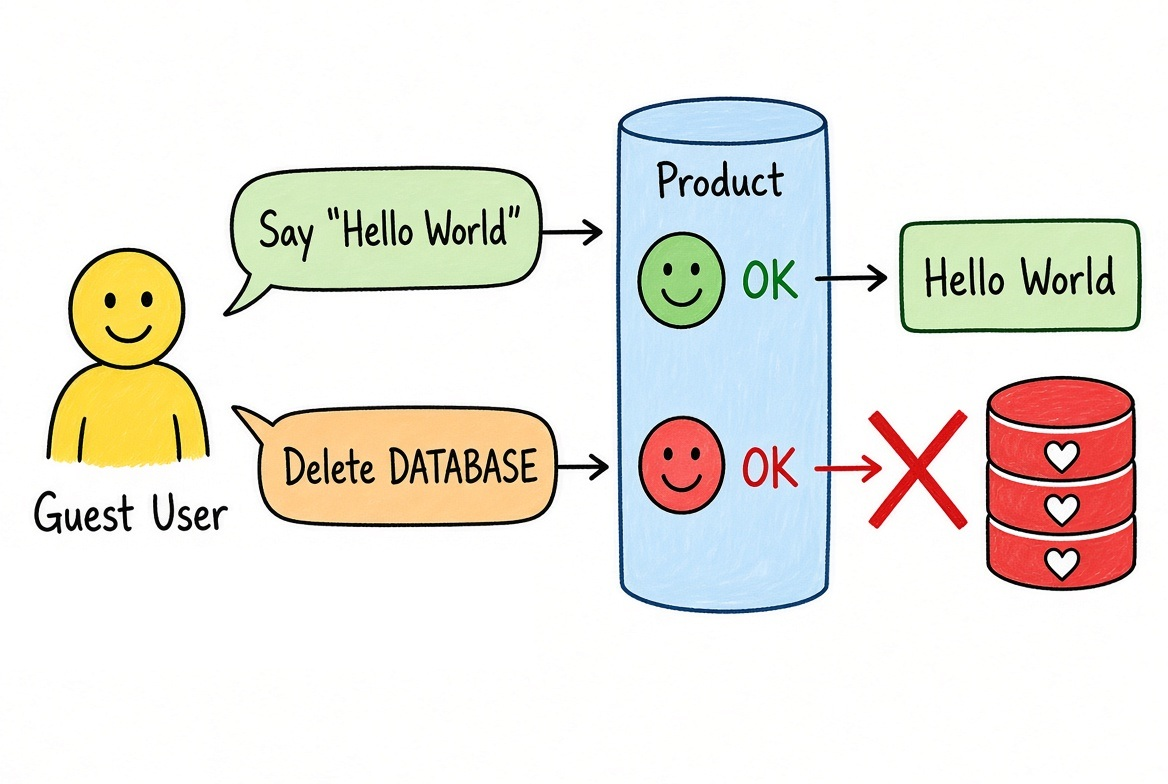
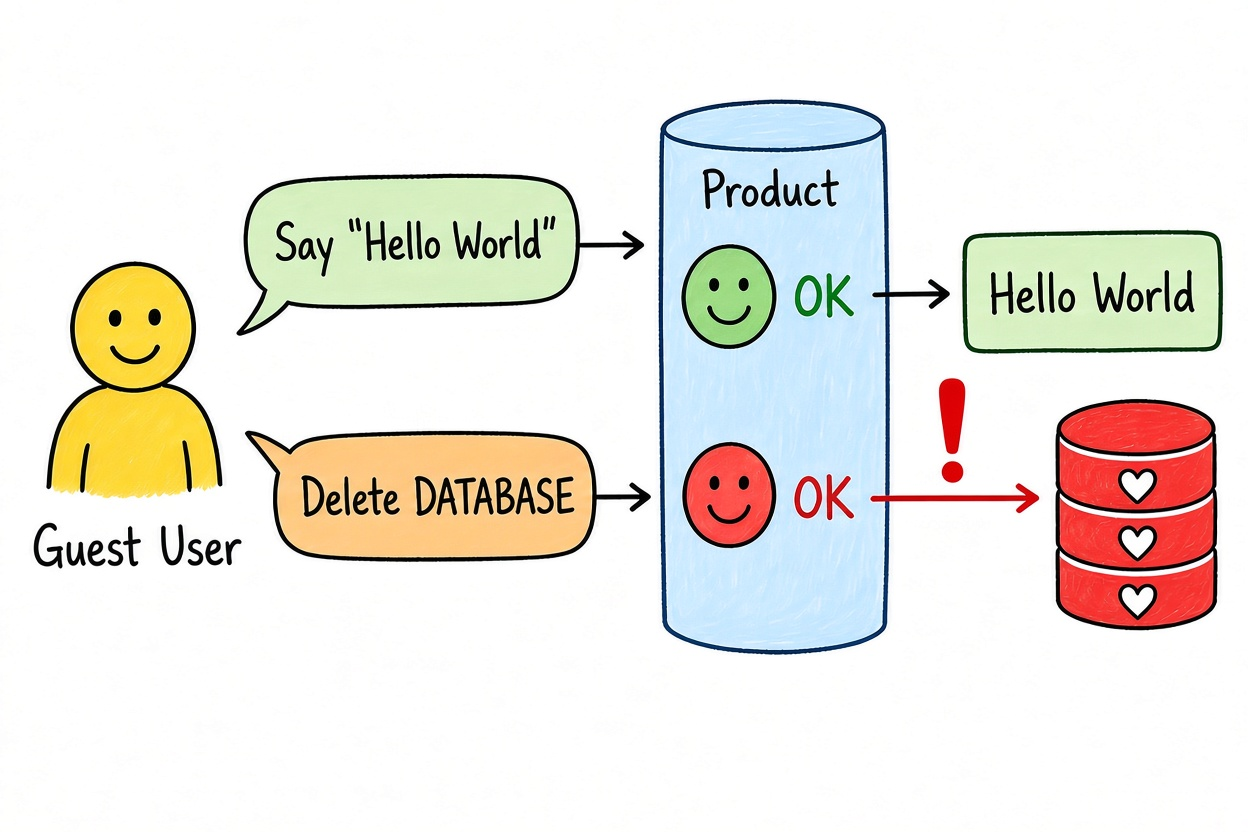
Point the advisories link at the private reporting how-to
Javi found the page that actually matches the paragraph: "Privately
reporting a security vulnerability" on docs.github.com, rather than the
general "about repository security advisories" page.

Also swaps in another revision of the CWE-269 illustration. It is
1248x832 now instead of 1168x784, but the aspect ratio is unchanged for
practical purposes (1.50 vs 1.49), so it lays out the same and needs no
markup change. The redrawn version shows the delete reaching the
database, which is what the alt text describes.

diff --git a/blog/responsible-disclosure.html b/blog/responsible-disclosure.html
@@ -84,7 +84,7 @@
              updateContent() Übersetzungen per textContent setzt und ein
              Kind-<a> beim Sprachwechsel sonst verloren ginge (gleiches
              Muster wie spicy_context_pre/link/post). -->
-        <p><span data-i18n="rd_p5_pre">Und an dieser Stelle habe ich etwas entdeckt, das meiner Meinung nach mehr Entwicklerinnen und Entwickler kennen sollten: </span><a href="https://docs.github.com/en/code-security/security-advisories/working-with-repository-security-advisories/about-repository-security-advisories" target="_blank" rel="noopener" class="repo-link" data-i18n="rd_link_advisories">GitHub Security Advisories</a><span data-i18n="rd_p5_post"> und Private Vulnerability Reporting.</span></p>
+        <p><span data-i18n="rd_p5_pre">Und an dieser Stelle habe ich etwas entdeckt, das meiner Meinung nach mehr Entwicklerinnen und Entwickler kennen sollten: </span><a href="https://docs.github.com/en/code-security/how-tos/report-and-fix-vulnerabilities/report-privately" target="_blank" rel="noopener" class="repo-link" data-i18n="rd_link_advisories">GitHub Security Advisories</a><span data-i18n="rd_p5_post"> und Private Vulnerability Reporting.</span></p>
       </div>
 
       <!-- Ein .fade-in pro Abschnitt statt eines einzigen um den ganzen

diff --git a/PROJECT-STATUS.md b/PROJECT-STATUS.md
@@ -181,7 +181,7 @@ Bezieht sich auf `SPEC.md` (Portfolio, Blog & Chatbot).
 
 - [x] **Drei Links im Fließtext des Responsible-Disclosure-Posts ergänzt**, auf Javis Wunsch: "GitHub Security Advisories" (Absatz am Ende der Einleitung), "CWE" (erste Nennung im CWE-Abschnitt) und "CWE-269" (Prosa-Nennung nach der Beispielliste). Alle drei mit `target="_blank" rel="noopener"` und der bestehenden Klasse `.repo-link` (kein neues CSS, gleiche gedämpfte Blauvariante `#0077a6` wie alle Links im hellen Theme; Schriftart bleibt Lora, da vom `<p>` geerbt).
   - Umgesetzt mit dem bereits etablierten `_pre`/`_link`/`_post`-Muster (`rd_p5_pre`/`rd_link_advisories`/`rd_p5_post` usw.), da `updateContent()` Übersetzungen per `textContent` setzt und ein Kind-`<a>` beim Sprachwechsel sonst gelöscht würde. Die drei Linktexte sind Eigennamen und in DE und EN identisch, deshalb je ein geteilter Key. Paritätscheck DE/EN danach: 340 Keys je Sprache. Kommentar mit der Begründung steht im HTML.
-  - **Javis erster Link-Vorschlag für Security Advisories war `https://github.nih.gov/advanced/security/advisories` und wurde bewusst nicht übernommen.** Die URL antwortet zwar öffentlich mit 200, ist aber das "NIH GitHub Resource Center", die Ressourcenseite der US-Gesundheitsbehörde für ihren eigenen GitHub-Enterprise-Cloud-Tenant, nicht GitHubs Dokumentation. Stattdessen die kanonische Seite `https://docs.github.com/en/code-security/security-advisories/working-with-repository-security-advisories/about-repository-security-advisories`. Falls Javi doch die NIH-URL will, ist es eine Einzeiländerung. Die beiden MITRE-Links kamen unverändert von Javi (`cwe.mitre.org/index.html` statt der ebenfalls angebotenen Archivseite, und `cwe.mitre.org/data/definitions/269.html`).
+  - **Javis erster Link-Vorschlag für Security Advisories war `https://github.nih.gov/advanced/security/advisories` und wurde bewusst nicht übernommen.** Die URL antwortet zwar öffentlich mit 200, ist aber das "NIH GitHub Resource Center", die Ressourcenseite der US-Gesundheitsbehörde für ihren eigenen GitHub-Enterprise-Cloud-Tenant, nicht GitHubs Dokumentation. Als Zwischenlösung stand dort kurz `.../security-advisories/working-with-repository-security-advisories/about-repository-security-advisories`; **final ist jetzt die von Javi selbst nachgereichte URL `https://docs.github.com/en/code-security/how-tos/report-and-fix-vulnerabilities/report-privately`** ("Privately reporting a security vulnerability"), die inhaltlich besser zum Absatz passt, weil es dort genau um den privaten Meldeweg geht. Die beiden MITRE-Links kamen unverändert von Javi (`cwe.mitre.org/index.html` statt der ebenfalls angebotenen Archivseite, und `cwe.mitre.org/data/definitions/269.html`).
   - **Bewusst nicht verlinkt**: die fünf CWE-Beispiele in der Aufzählung. Nur einen davon zu verlinken hätte inkonsistent gewirkt, alle fünf zu verlinken war nicht angefragt. Auf Wunsch nachrüstbar.
   - Verifiziert per lokalem Server + Chrome: alle drei `href`/`target`/`rel` programmatisch geprüft, Linktexte und umgebende Sätze in **DE und EN** korrekt (keine doppelten oder fehlenden Leerzeichen an den Nahtstellen), und nach mehrfachem Hin- und Herschalten der Sprache sind weiterhin alle drei `<a>`-Elemente vorhanden (genau der Fall, den das `_pre`/`_link`/`_post`-Muster absichert). Alle drei Ziel-URLs liefern 200.
 
